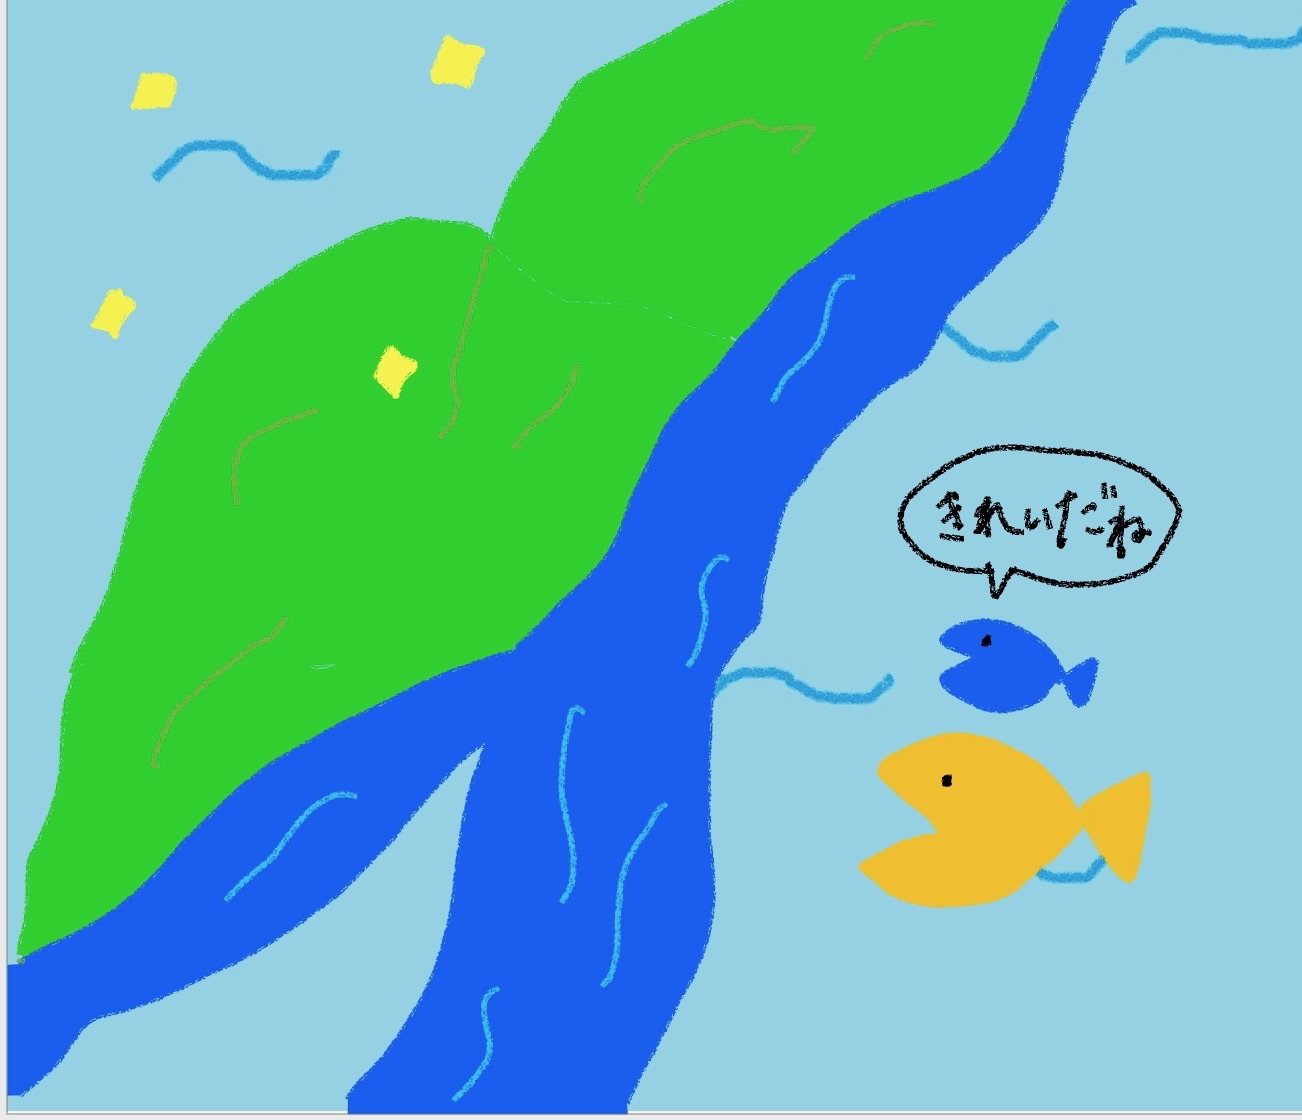
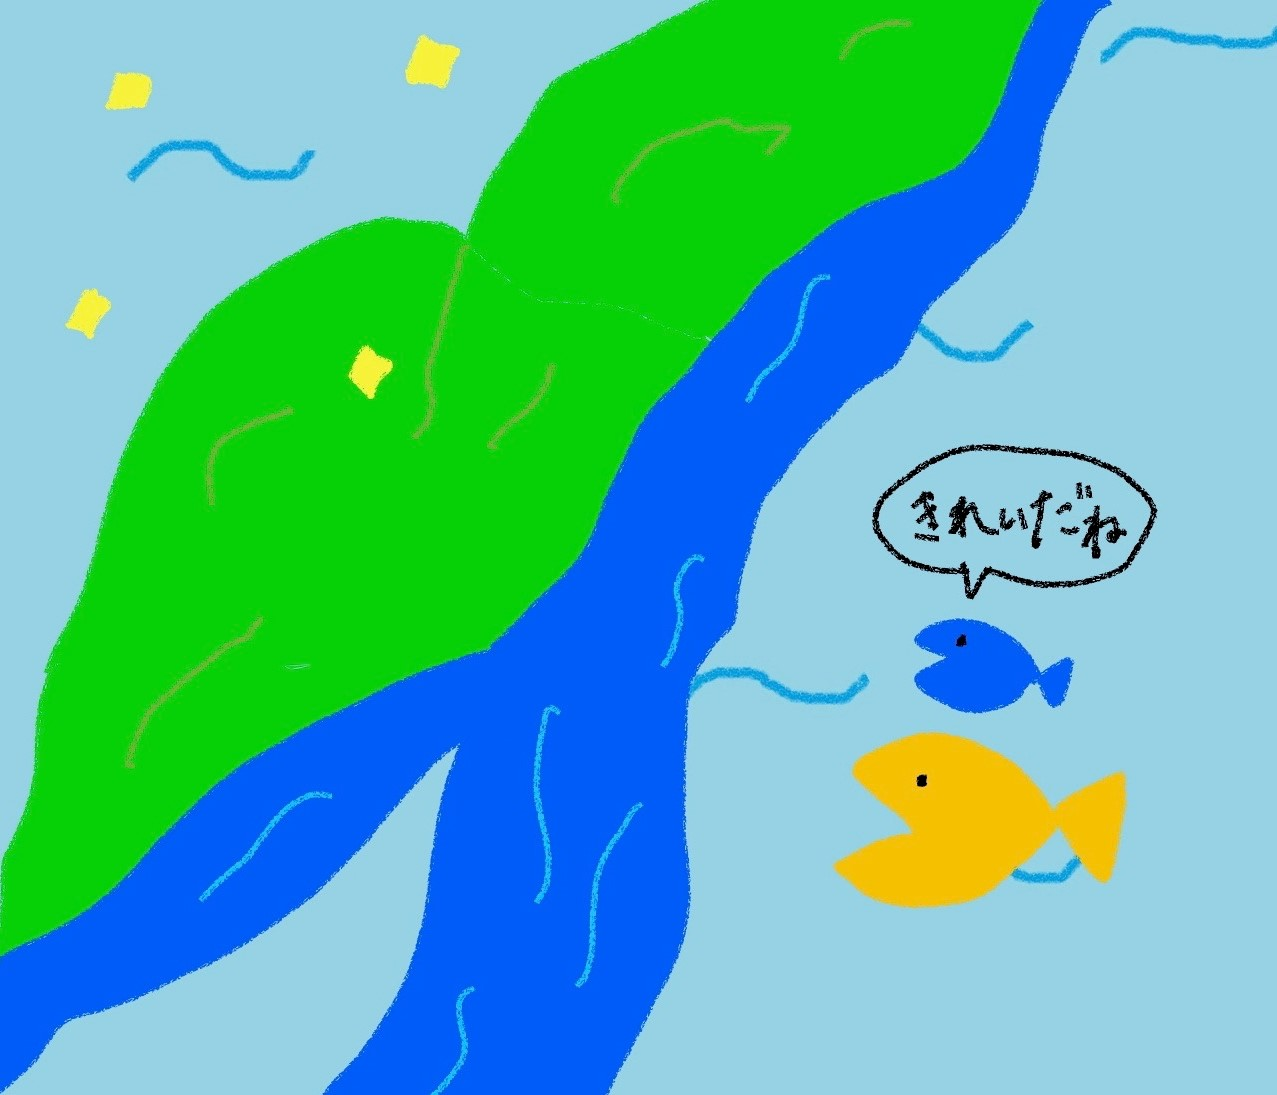
画像全部追加と微調整

diff --git a/lib/lists.js b/lib/lists.js
@@ -3,7 +3,7 @@ const sequelize = new Sequelize(
   'postgres://postgres:postgres@localhost/yoji_jukugo',
   {
     logging: false,
-    operatorsAliases: false 
+    
   });
 const lists = sequelize.define('lists', {
   id: {

diff --git a/lib/yoji.js b/lib/yoji.js
@@ -3,7 +3,7 @@ const sequelize = new Sequelize(
   'postgres://postgres:postgres@localhost/yoji_jukugo',
   {
     logging: false,
-    operatorsAliases: false 
+    
   });
 const yoji = sequelize.define('yoji', {
   id: {
